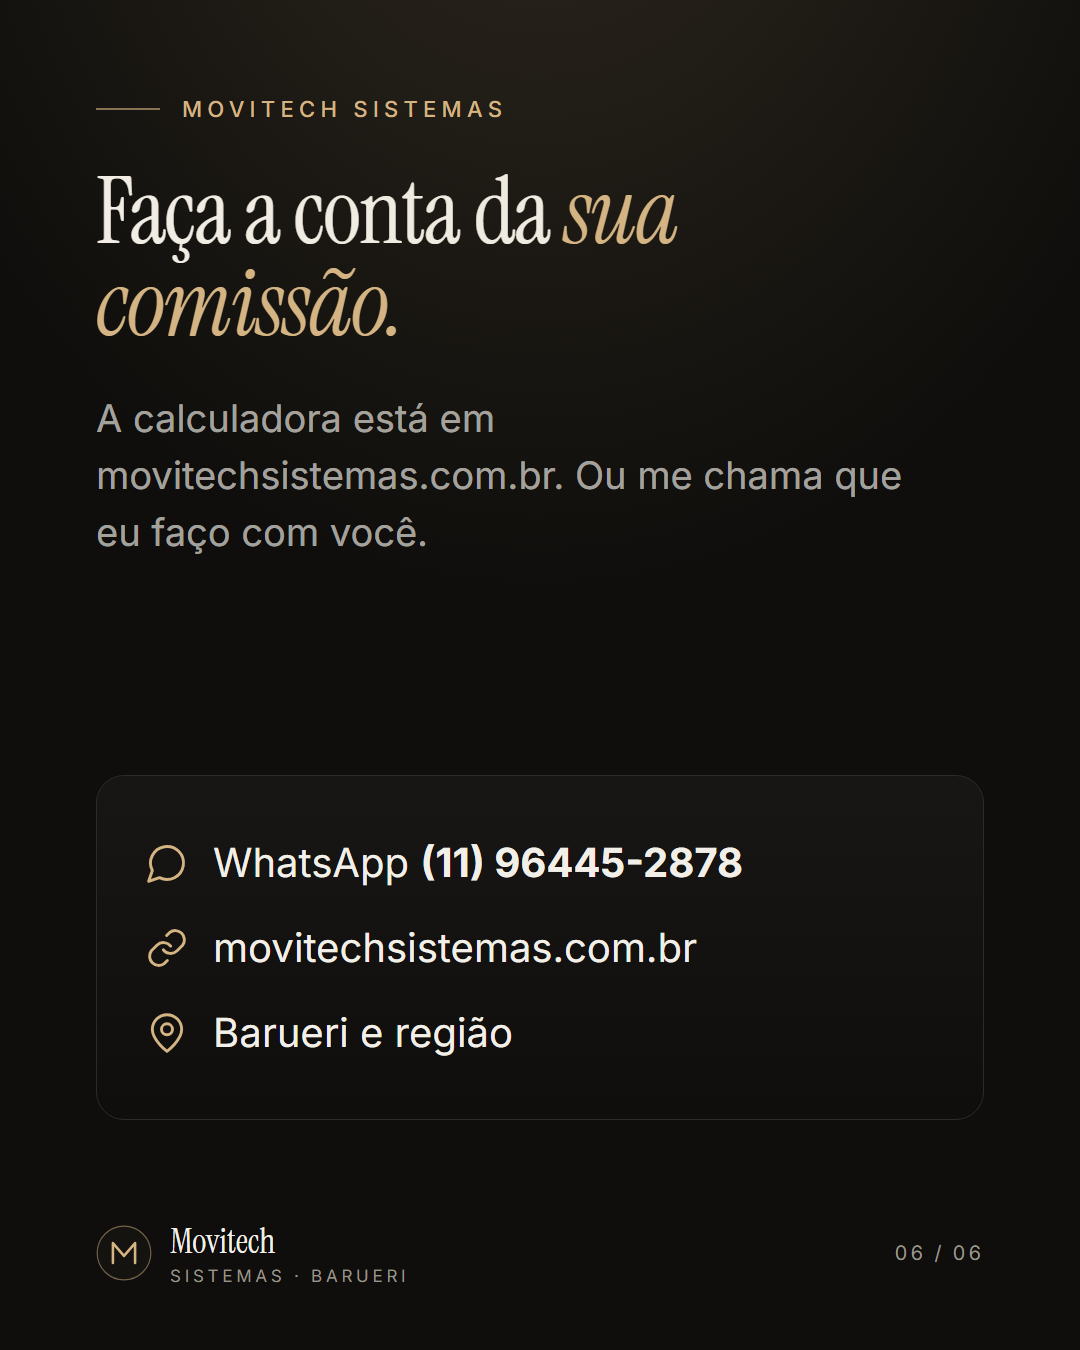
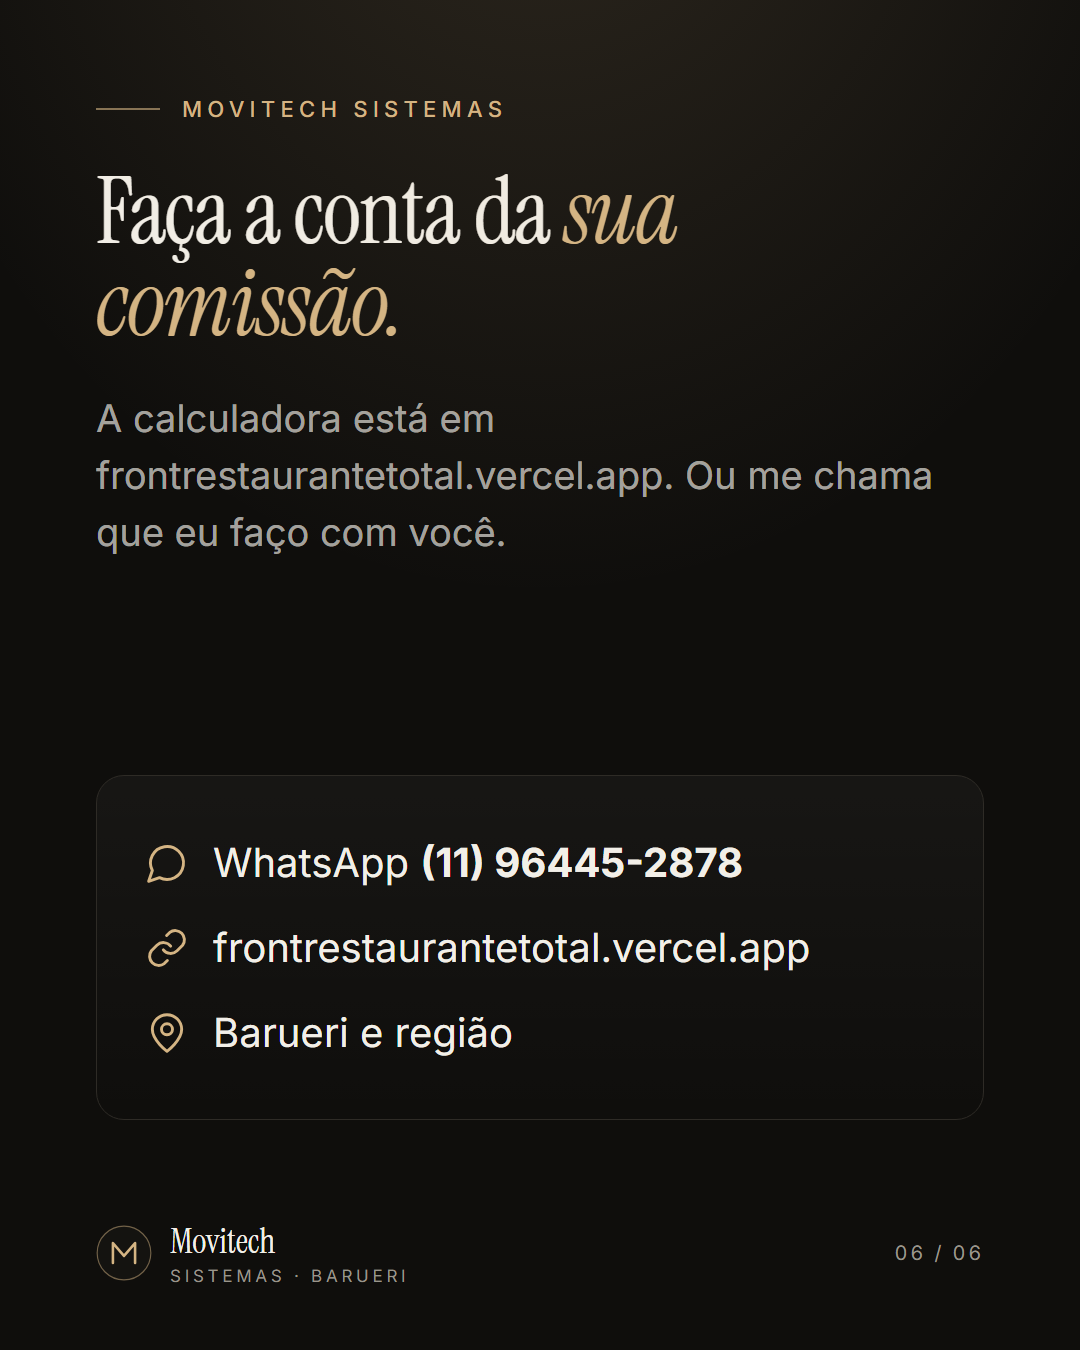
Volta o site divulgado para frontrestaurantetotal.vercel.app
O domínio movitechsistemas.com.br ainda não foi contratado. Posts do Instagram
(PNG exportados de novo), histórias de marca e texto na tela dos vídeos passam a
mostrar o endereço da Vercel. A narração já gravada do vídeo de apresentação
continua citando o domínio novo, de propósito.

Changed region(s): [[0.0917, 0.3422, 0.8556, 0.4044], [0.1833, 0.6844, 0.7639, 0.7156]]

diff --git a/videos/html/_comum/motor.js b/videos/html/_comum/motor.js
@@ -446,7 +446,7 @@
     const ps = frase(tit, cfg.titulo || 'Peça seu | *orçamento*')
     const zap = el(`<div class="flex" style="left:110px;top:1010px;width:860px;height:160px;border-radius:80px;background:#25d366;display:flex;align-items:center;justify-content:center;gap:26px;color:#fff;font:800 64px/1 var(--sans);box-shadow:0 30px 70px rgba(37,211,102,.25)">
       <span style="display:inline-flex">${ZAP()}</span><span>(11) 96445-2878</span></div>`, box)
-    const site = el('<div style="left:0;top:1222px;width:1080px;text-align:center;font:500 38px/1 var(--sans);color:#9a958b">movitechsistemas.com.br</div>', box)
+    const site = el('<div style="left:0;top:1222px;width:1080px;text-align:center;font:500 38px/1 var(--sans);color:#9a958b">frontrestaurantetotal.vercel.app</div>', box)
     som('ding', inicio(nome) + 0.9, 0.22)
     return (t) => {
       const s5 = inicio(nome)

diff --git a/marketing/instagram/posts.html b/marketing/instagram/posts.html
@@ -117,7 +117,7 @@ const ICON = {
 }
 const WATERMARK = '<svg class="watermark" viewBox="0 0 48 48"><circle cx="24" cy="24" r="23" fill="none" stroke="#d4b483" stroke-width=".4"/><path d="M14.5 32.5v-17l9.5 11 9.5-11v17" fill="none" stroke="#d4b483" stroke-width=".9" stroke-linecap="round" stroke-linejoin="round"/></svg>'
 const WHATS = '(11) 96445-2878'
-const SITE = 'movitechsistemas.com.br'
+const SITE = 'frontrestaurantetotal.vercel.app'
 
 const ILUSTRATIVA = '<span class="tag">Situação ilustrativa</span><div class="push"></div>'
 const phase = (label, after = false) => `<div class="phase${after ? ' after' : ''}"><b>${label}</b></div>`

diff --git a/videos/src/mg/MG.jsx b/videos/src/mg/MG.jsx
@@ -14,7 +14,7 @@ export const { fontFamily: font } = loadBricolage('normal', { weights: ['500', '
 
 export const P = { ink: '#15132b', cream: '#fff6e5', gold: '#ffc145', goldDark: '#e9a21f', coral: '#ff5a5f', teal: '#2ec4b6', violet: '#6c5ce7', mint: '#7ff0c8', white: '#ffffff', zap: '#25d366' }
 export const WHATS = '(11) 96445-2878'
-export const SITE = 'movitechsistemas.com.br'
+export const SITE = 'frontrestaurantetotal.vercel.app'
 export const FPS = 30
 export const EASE = Easing.bezier(0.65, 0, 0.35, 1)
 export const clamp = { extrapolateLeft: 'clamp', extrapolateRight: 'clamp' }

diff --git a/videos/src/movi/MoviVideos.jsx b/videos/src/movi/MoviVideos.jsx
@@ -22,7 +22,7 @@ const C = {
   gold: '#f0c46b', amber: '#e2a74a', coral: '#ff6f61', mint: '#7ff0c8', violet: '#8b6cff', zap: '#25d366',
 }
 const WHATS = '(11) 96445-2878'
-const SITE = 'movitechsistemas.com.br'
+const SITE = 'frontrestaurantetotal.vercel.app'
 const FPS = 30
 
 export const VOZES = { apresentacao: vozApresentacao, negocios: vozNegocios, restaurantes: vozRestaurantes }

diff --git a/marketing/instagram/legendas.md b/marketing/instagram/legendas.md
@@ -5,8 +5,8 @@ As imagens prontas estão em `png/`, uma pasta por post e lâminas na ordem (`01
 
 Para mudar um texto: edite `posts.html` (abra no navegador para ver todos os posts) e rode `bash exportar.sh` nesta pasta.
 
-> ⚠ **Antes de postar:** confira se o site **movitechsistemas.com.br** está abrindo. Ele não respondeu no teste de 12/10/2026.
-> Se ainda não estiver no ar, troque `SITE` em `posts.html` por `frontrestaurantetotal.vercel.app/restaurantes` e exporte de novo.
+> O site nos posts é **frontrestaurantetotal.vercel.app** (o domínio movitechsistemas.com.br ainda não foi contratado).
+> Quando contratar, troque `SITE` em `posts.html` e rode `bash exportar.sh`.
 > As histórias da Márcia, do Rafael, do Seu Antônio e da Juliana são **situações ilustrativas**, e as lâminas já dizem isso. Não apresente como cliente real.
 
 ## Ordem sugerida (2 a 3 posts por semana)

diff --git a/marketing/05-historias-de-marca.md b/marketing/05-historias-de-marca.md
@@ -185,4 +185,4 @@ Fala "pedido", "comanda", "mesa", "garçom", "cozinha". Frases curtas.
 - **Números de comissão:** falar em "em muitos planos" ou usar a calculadora; o percentual varia por contrato.
 - **Personagens da seção 4 não são clientes.** Não dar nome de restaurante real, não usar como prova.
 - **Fotos de restaurante, cliente ou equipe:** só com autorização.
-- **WhatsApp e site:** conferir se estão certos antes de publicar ([(11) 96445-2878] · [movitechsistemas.com.br]).
+- **WhatsApp e site:** conferir se estão certos antes de publicar ([(11) 96445-2878] · [frontrestaurantetotal.vercel.app]).

diff --git a/videos/marca-movitech.md b/videos/marca-movitech.md
@@ -4,7 +4,7 @@ Fonte: site (`frontrestaurantetotal/src/index.css`, páginas Landing e Restauran
 
 ## Identidade
 - Nome: **Movitech** (Movitech Sistemas, de Barueri/SP)
-- Site: movitechsistemas.com.br
+- Site: frontrestaurantetotal.vercel.app (domínio movitechsistemas.com.br ainda não contratado)
 - WhatsApp de vendas: (11) 96445-2878
 - Logo: "M" em traço champanhe dentro de um círculo escuro (`frontrestaurantetotal/public/favicon.svg`)
 - Apresentadora: Movi (avatar ilustrado, `src/movi/`), voz pt-BR Thalita
